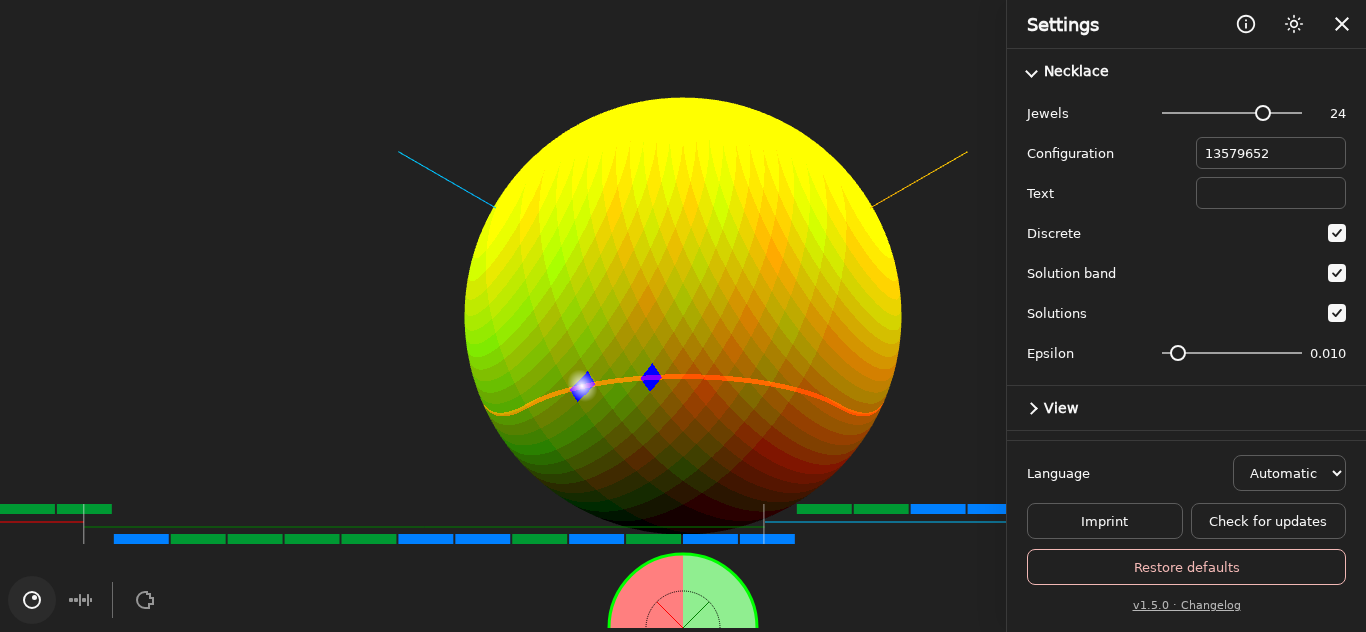
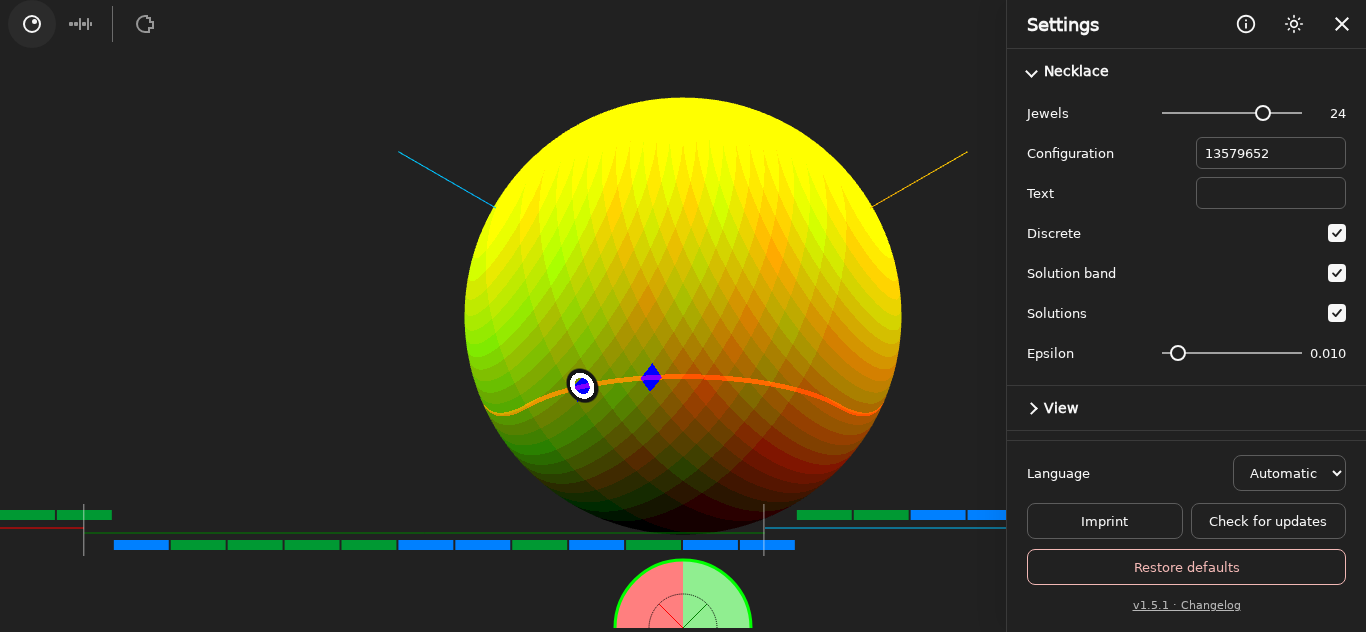
fix: readable marker, earlier turn, longer handles, switcher top left (v1.5.1)
Polish after trying v1.5.0 on a phone:

- The marker on the sphere is a white ring with a dark outline, open in
  the middle: the white glow was hard to see on the bright yellow, and a
  filled dot hid the color (and the blue solution markers) beneath it.
- The camera turns to a cut set on the necklace once it lies more than
  50 degrees from the direction of view, not only when it is hidden: near
  the rim the marker was squeezed and hard to see.
- The handles reach 6 px beyond the jewels' rows; the necklace starts
  that much lower.
- The view switcher moved to the upper left corner, level with the icon
  buttons; its tooltips open downward, and on phones the morph slider
  wraps below it. The fairness meter is centered again: the code that
  moved it aside for the switcher is gone.

Docs and screenshots follow.

diff --git a/src/necklace/Necklace.ts b/src/necklace/Necklace.ts
@@ -28,8 +28,12 @@ const Y_GAP_BETWEEN_THIEVES = 20;
 const Y_GAP_BETWEEN_LINE_SEGMENTS = 5;
 const Y_GAP_THIEF_LINE_SEGMENT = 7;
 
-/** The jewels' two rows, where the handles are drawn and parts are tapped. */
+/** How far the handles reach beyond the jewels' rows; the necklace starts this far down. */
+const OVERHANG = 6;
+/** The jewels' two rows, where parts are tapped. */
 const ROWS_HEIGHT = 2 * JEWEL_HEIGHT + Y_GAP_BETWEEN_THIEVES;
+/** Where the handles are drawn and grabbed, from the top of the canvas. */
+const HANDLES_HEIGHT = ROWS_HEIGHT + 2 * OVERHANG;
 /** How far from a handle, in px, a pointer still grabs it: at least 24 px wide for fingers. */
 const HANDLE_REACH = 14;
 /**
@@ -236,7 +240,7 @@ class Necklace extends NecklaceComponent {
   }
 
   private onPointerDown(event: PointerEvent): void {
-    if (!cutsFromNecklace() || !this.hasCut || event.offsetY > ROWS_HEIGHT + HANDLE_REACH) {
+    if (!cutsFromNecklace() || !this.hasCut || event.offsetY > HANDLES_HEIGHT + HANDLE_REACH) {
       return;
     }
     const handle = this.handleAt(event.offsetX);
@@ -254,7 +258,7 @@ class Necklace extends NecklaceComponent {
     if (this.#dragging) {
       this.#dragging = this.moveHandle(this.#dragging, event.offsetX / this.width);
     } else if (cutsFromNecklace() && this.hasCut) {
-      const onRows = event.offsetY <= ROWS_HEIGHT + HANDLE_REACH;
+      const onRows = event.offsetY <= HANDLES_HEIGHT + HANDLE_REACH;
       this.canvas.style.cursor = !onRows ? "" : this.handleAt(event.offsetX) ? "ew-resize" : "pointer";
     }
   }
@@ -363,7 +367,7 @@ class Necklace extends NecklaceComponent {
     if (ctxOrNull !== null) {
       const ctx: CanvasRenderingContext2D = ctxOrNull;
       const xOffset = 0;
-      const yOffset = 0;
+      const yOffset = OVERHANG;
       let xPos = xOffset;
 
       const cuts = this.model.cuts;
@@ -373,7 +377,10 @@ class Necklace extends NecklaceComponent {
 
         // Render line segments for x*x, y*y, z*z
         if (cuts !== undefined) {
+          ctx.save();
+          ctx.translate(0, yOffset);
           this.drawSegments(ctx, cuts);
+          ctx.restore();
         }
         if (this.hasCut) {
           this.drawHandles(ctx);
@@ -384,7 +391,7 @@ class Necklace extends NecklaceComponent {
       if (this.model.thief_a !== undefined && this.showGauge) {
         const thief_a = this.model.canonicalThief(this.model.thief_a);
         const thief_b = this.model.canonicalThief(this.model.thief_b);
-        this.drawGauge(ctx, 50, thief_a, thief_b);
+        this.drawGauge(ctx, 50 + OVERHANG, thief_a, thief_b);
       }
 
       // Some debug output
@@ -449,7 +456,7 @@ class Necklace extends NecklaceComponent {
       ctx.lineWidth = interactive ? 2 : 1;
       ctx.beginPath();
       ctx.moveTo(x, 0);
-      ctx.lineTo(x, ROWS_HEIGHT);
+      ctx.lineTo(x, HANDLES_HEIGHT);
       ctx.stroke();
       if (interactive) {
         // The grip, in the gap between the rows.
@@ -458,7 +465,7 @@ class Necklace extends NecklaceComponent {
         // Whole at the ends of the necklace too.
         const grip = Math.min(this.width - width / 2, Math.max(width / 2, x));
         ctx.beginPath();
-        ctx.roundRect(grip - width / 2, JEWEL_HEIGHT + 2, width, height, 3);
+        ctx.roundRect(grip - width / 2, OVERHANG + JEWEL_HEIGHT + 2, width, height, 3);
         ctx.fill();
       }
     }
@@ -468,7 +475,7 @@ class Necklace extends NecklaceComponent {
       ctx.globalAlpha = 1;
       ctx.lineWidth = 2;
       ctx.setLineDash([4, 3]);
-      ctx.strokeRect(bounds[part] * this.width + 1, 1, (bounds[part + 1] - bounds[part]) * this.width - 2, ROWS_HEIGHT - 2);
+      ctx.strokeRect(bounds[part] * this.width + 1, 1, (bounds[part + 1] - bounds[part]) * this.width - 2, HANDLES_HEIGHT - 2);
     }
     ctx.restore();
   }
@@ -545,25 +552,12 @@ class Necklace extends NecklaceComponent {
     const height = this.height - y0;
     const lineWidth = 3.0;
     const vgap = 2;
-    let radius = height - vgap;
-    let centerX = this.width / 2;
-    // Clear of the view switcher in the lower left corner: on narrow screens,
-    // centered in the room right of it and left of the version label, and
-    // smaller if that room is too small.
-    const switcher = document.querySelector(".view-switcher");
-    if (switcher) {
-      const left = switcher.getBoundingClientRect().right - this.canvas.getBoundingClientRect().left + 8;
-      if (centerX - radius < left) {
-        const room = this.width - 48 - left;
-        radius = Math.min(radius, room / 2);
-        centerX = left + room / 2;
-      }
-    }
+    const radius = height - vgap;
 
     if (radius >= 10) {
       /** The real circle radius, scaled by sqrt(0.5), because the largest vector can be [1,1]. */
       const rradius = Math.SQRT1_2 * radius;
-      const center = new THREE.Vector2(centerX, this.height - vgap);
+      const center = new THREE.Vector2(this.width / 2, this.height - vgap);
 
       const THIEF_A_COLOR = this.thief_a_color;
       const THIEF_B_COLOR = this.thief_b_color;

diff --git a/src/i18n/info/info.de.html b/src/i18n/info/info.de.html
@@ -9,12 +9,12 @@
 <h2>Die Kugel</h2>
 <p>Jeder Punkt (x, y, z) der Kugel ist ein Paar von Schnitten: Sie teilen die Halskette in bis zu drei Stücke der Längen x², y² und z²,
     die zusammen die ganze Halskette ergeben. Das Vorzeichen jeder Koordinate gibt die zugehörige Teilkette Dieb A (+) oder Dieb B (−).</p>
-<p>Positionsmarker auf der Kugel: Die weiße Markierung zeigt auf einen Punkt der Kugeloberfläche, die Halskette darunter seine Schnitte, gefolgt von der Fairness-Anzeige,
+<p>Positionsmarker auf der Kugel: Die Markierung, ein weißer Ring mit dunklem Rand, zeigt auf einen Punkt der Kugeloberfläche, die Halskette darunter seine Schnitte, gefolgt von der Fairness-Anzeige,
     die zeigt, wie gerecht die Teilung ist. Je eine Linie pro Dieb zeigt, wie viel er von jedem Juwelen-Typ bekommt; der gepunktete Bogen
     markiert einen gerechten Anteil, und der äußere Bogen färbt sich von Rot nach Grün, je gerechter die Teilung wird.</p>
-<p>Oder schneide die Halskette selbst: Die beiden Knöpfe in der linken unteren Ecke wählen, was die Schnitte setzt - das Zeigen auf die Kugel oder die Griffe der Halskette.
+<p>Oder schneide die Halskette selbst: Die beiden Knöpfe in der linken oberen Ecke wählen, was die Schnitte setzt - das Zeigen auf die Kugel oder die Griffe der Halskette.
     Mit <em>Die Halskette schneiden</em> ziehst du die beiden Griffe entlang der Halskette und tippst auf ein Stück, um es dem anderen Dieb zu geben.
-    Die Markierung auf der Kugel folgt, und die Ansicht dreht sich zu ihr, wenn sie verdeckt ist. Ist die Teilung gerecht, sagt es dir die App.</p>
+    Die Markierung auf der Kugel folgt, und die Ansicht dreht sich zu ihr, wenn sie an den Rand gerät oder verdeckt ist. Ist die Teilung gerecht, sagt es dir die App.</p>
 <p>Die Farben auf der Kugeloberfläche visualisieren, wie viel Dieb A von jedem Juwelen-Typ bekommt: Rot für die erste Sorte, Grün für die zweite.
     Helles Gelb, eine Mischung aus beiden Farben, bedeutet, dass Dieb A von beiden Juwelen-Typen den größten Teil bekommt.</p>
 
@@ -42,7 +42,7 @@
     Anders formuliert: Die Hilfsfunktion g(x) = f(x) − f(−x) muss mindestens eine Nullstelle haben.</p>
 <p>Entlang eines Kreises um die Kugel bildet g(x) eine geschlossene Schleife um den Ursprung, weil g stetig ist und g(−x) = −g(x) gilt.
     Wandert der Kreis zu einem Pol, schrumpft die Schleife stetig zu einem einzigen Punkt - unterwegs muss sie also den Ursprung kreuzen.</p>
-<p>Der Borsuk-Ulam-Knopf in der linken unteren Ecke verwandelt die Kugel in die 3D-Form, die g(x) bildet, während der Kreis wandert:
+<p>Der Borsuk-Ulam-Knopf in der linken oberen Ecke verwandelt die Kugel in die 3D-Form, die g(x) bildet, während der Kreis wandert:
     Jeder Punkt x der Kugel wird bei (g(x), z) gezeichnet, in den Farben der Kugel.
     Mit dem Schieberegler neben dem Knopf gehst du stufenlos zwischen Kugel und Form hin und her; Halskette und Fairness-Anzeige sind währenddessen ausgeblendet. Gerechte Teilungen liegen dort, wo die Form die z-Achse trifft (<em>Ansicht › Achsen</em>).
     Mit <em>Halskette › Diskret</em> springt g von Wert zu Wert; die Wände zwischen den Stufen überbrücken diese Sprünge.

diff --git a/src/i18n/info/info.html b/src/i18n/info/info.html
@@ -9,12 +9,12 @@
 <h2>The sphere</h2>
 <p>Each point (x, y, z) on the sphere is a pair of cuts: they split the necklace into up to three pieces of the lengths x², y² and z²,
     which add up to the whole necklace. The sign of each coordinate gives its piece to thief A (+) or thief B (−).</p>
-<p>Point at the sphere: the white marker shows the point, the necklace below it the cuts, and the fairness meter how fair the split is.
+<p>Point at the sphere: the marker, a white ring with a dark outline, shows the point, the necklace below it the cuts, and the fairness meter how fair the split is.
     One line per thief shows how much of each kind of jewel that thief gets; the dotted arc marks a fair share, and the outer arc
     turns from red to green as the split gets fairer.</p>
-<p>Or cut the necklace yourself: the two buttons in the lower left corner choose what sets the cuts, pointing at the sphere or the necklace's handles.
+<p>Or cut the necklace yourself: the two buttons in the upper left corner choose what sets the cuts, pointing at the sphere or the necklace's handles.
     With <em>Cut the necklace</em>, drag the two handles along the necklace and tap a piece to give it to the other thief.
-    The marker on the sphere follows, and the view turns to it when it is out of sight. When the split is fair, the app says so.</p>
+    The marker on the sphere follows, and the view turns to it when it nears the rim or goes out of sight. When the split is fair, the app says so.</p>
 <p>The colors on the sphere show how much thief A gets of each kind of jewel: red for the first kind, green for the second.
     Bright yellow, a mix of both, means thief A gets most of both kinds.</p>
 
@@ -40,7 +40,7 @@
     In other words, the auxiliary function g(x) = f(x) − f(−x) must have at least one zero.</p>
 <p>Along a circle around the sphere, g(x) forms a closed loop around the origin, because g is continuous and g(−x) = −g(x).
     Moving the circle towards a pole shrinks the loop continuously to a single point, so on the way the loop must cross the origin.</p>
-<p>The Borsuk-Ulam button in the lower left corner morphs the sphere into the 3D shape formed by g(x)
+<p>The Borsuk-Ulam button in the upper left corner morphs the sphere into the 3D shape formed by g(x)
     as the circle moves: each point x of the sphere is drawn at (g(x), z), in the colors of the sphere.
     The slider beside the button moves the view anywhere between sphere and shape; necklace and fairness meter are hidden meanwhile. Fair splits lie where the shape meets the z axis (<em>View › Axes</em>).
     With <em>Necklace › Discrete</em>, g jumps from value to value; the walls between the steps span these jumps.

diff --git a/src/sphere/Sphere.ts b/src/sphere/Sphere.ts
@@ -17,6 +17,12 @@ import fragmentShader from "./shaders/sphere.frag";
 
 /** How long the camera takes to turn to a cut out of sight, in ms. */
 const TURN_DURATION = 700;
+/**
+ * How far from the direction of view a cut may lie before the camera turns to
+ * it: cos 50°, about three quarters of the way from the center to the rim.
+ * Further out, the marker is squeezed at the rim or hidden behind it.
+ */
+const IN_VIEW_COS = Math.cos((50 * Math.PI) / 180);
 
 const easeInOut = (x: number) => x < 0.5 ? 2 * x * x : 1 - (-2 * x + 2) ** 2 / 2;
 
@@ -253,7 +259,7 @@ class Sphere extends NecklaceComponent {
   }
 
   /**
-   * Turns the camera to the model's cut if it is out of sight: after a handle
+   * Turns the camera to the model's cut if it is near the rim or out of sight: after a handle
    * is let go or a part given to the other thief. Not while the sphere rotates,
    * which would carry the point away again.
    */
@@ -272,8 +278,9 @@ class Sphere extends NecklaceComponent {
     const toPoint = point.sub(target).normalize();
     const toCamera = this.#camera.position.clone().sub(target);
     const distance = toCamera.length();
-    // In sight: on the part of the sphere the camera sees, whose edge lies at cos = radius / distance.
-    if (toPoint.dot(toCamera.clone().normalize()) > SETTINGS.sphere.radius / distance) {
+    // Well in sight: near enough to the direction of view, and on the part of
+    // the sphere the camera sees at all, whose edge lies at cos = radius / distance.
+    if (toPoint.dot(toCamera.clone().normalize()) > Math.max(IN_VIEW_COS, SETTINGS.sphere.radius / distance)) {
       return;
     }
     const from = toCamera.normalize();

diff --git a/src/css/switcher.css b/src/css/switcher.css
@@ -1,15 +1,17 @@
-/* The view switcher (ui/ViewSwitcher.ts): in the lower left corner, as in
-   Climate Helix. The necklace canvas spans the bottom 20%, but draws its rows
-   at the top and the fairness meter centered below: the corner stays free. */
+/* The view switcher (ui/ViewSwitcher.ts): in the upper left corner, level
+   with the icon buttons on the right. On a phone the morph slider wraps onto
+   a line of its own below the buttons, clear of those on the right. */
 .view-switcher {
     /* Below the settings panel (6) and the overlays (8). */
     z-index: 5;
     position: absolute;
     left: 8px;
-    bottom: 8px;
+    top: 0;
+    max-width: calc(100% - var(--settings-size) * 3 - 24px);
     display: flex;
+    flex-wrap: wrap;
     align-items: center;
-    gap: 8px;
+    gap: 0 8px;
 }
 
 /* The input buttons, exclusive, set apart from the shape toggle by a line. */
@@ -77,7 +79,7 @@
 
 .view-tooltip {
     position: absolute;
-    bottom: calc(100% + 6px);
+    top: calc(100% + 6px);
     left: 0;
     white-space: nowrap;
     font-size: 0.8rem;

diff --git a/src/ui/ViewSwitcher.ts b/src/ui/ViewSwitcher.ts
@@ -19,7 +19,7 @@ const MORPH_DURATION = 1000;
 const easeInOut = (x: number) => x < 0.5 ? 2 * x * x : 1 - (-2 * x + 2) ** 2 / 2;
 
 /**
- * The buttons in the lower left corner, modeled on Climate Helix's scene
+ * The buttons in the upper left corner, modeled on Climate Helix's scene
  * switcher. Two exclusive buttons choose what sets the cuts: the pointer on the
  * sphere or the handles on the necklace (SETTINGS.view.input, INPUT_CHANGED).
  * The Borsuk-Ulam toggle morphs the sphere into

diff --git a/src/i18n/en.ts b/src/i18n/en.ts
@@ -61,7 +61,7 @@ export const en = {
         'button.close': 'Close',
         'button.showInfo': 'About this app',
 
-        /** The view switcher in the lower left corner (ui/ViewSwitcher.ts). */
+        /** The view switcher in the upper left corner (ui/ViewSwitcher.ts). */
         'view.inputSphere': 'Point at the sphere',
         'view.inputNecklace': 'Cut the necklace',
         'view.borsukUlam': 'Borsuk-Ulam shape',

diff --git a/CLAUDE.md b/CLAUDE.md
@@ -59,11 +59,11 @@ Commit messages are `type: summary (vX.Y.Z)` with `type` one of `feat`, `fix`, `
 
 - `src/main.ts` sets up the app: settings, theme switcher, model, sphere, necklace, screen capture and the version label.
 - `src/necklace/NecklaceModel.ts` is the logic: the necklace configuration (from a number, lowest bit first, or from the bits of a string's characters), and the segment lengths and thief assignment for a cut. The shaders (`src/sphere/shaders/functions.glsl`) compute the same split for every point of the sphere; change both together, `e2e/split.spec.ts` compares them. `shares(p)` gives thief A's shares without applying the cut, for the Borsuk-Ulam shape.
-- `src/sphere/Sphere.ts` is the 3D view: renderer, camera, `OrbitControls`, the sphere as eight octant meshes (faces and wireframe sharing one geometry; Spread octants moves them, Undivided octants hides two, so the shaders know nothing of octants and no triangle spans two of them) with their GLSL shaders (`src/sphere/shaders/`, loaded through `vite-plugin-glsl`), the solution band, the raycast that picks the cut under the pointer (it interpolates the hit triangle's `cut` attribute), and the render loop. `octantGeometry.ts` builds an octant's geometry: the attribute `cut` holds the point of the unit sphere each vertex stands for, which the shaders color by; when the Borsuk-Ulam shape is needed (shown, or morphing), the geometry gets it as its morph target, (g(x), z) · radius, computed on the CPU with `NecklaceModel.shares`. The meshes' morph influence (`SETTINGS.sphere.morph`, `applyMorph`) moves between sphere and shape; faces (the vertex shader includes Three's morph chunks), wireframe and raycast all follow it. The geometry is rebuilt by Radius and Segments, and with the shape also when the necklace or Discrete changes (`updateGeometry`). View › Lighting shades the faces in the fragment shader with a flat normal from screen-space derivatives and a headlight (`u_light`: Always 1, Shape as far as the sphere is morphed, Off 0); the light dims the colors to 60% at most, and the solution band and the marker stay unlit. The shape follows Discrete (decided 2026-09-29): a discrete g is piecewise constant, so what shows are the walls across its jumps, and they stay. `OrbitControls` stay (decided 2026-09-28, instead of the `TrackballControls` Climate Helix uses): they reach every point of the sphere and keep the vertical axis vertical, so the axes and octants stay where the explanation puts them; trackball controls let the view tip over, and their momentum needs an update every frame, against drawing only on change. The loop draws only when something changed (`#needsRender`: camera, pointer, size, theme, sphere, material or visibility) and every frame while the rotation animation runs: set the flag when adding anything else that changes the picture. The pointer is hit-tested before drawing; it starts outside the view, so no cut is set before it moves. In the necklace mode (`cutsFromNecklace()` in `settingsValues.ts`) there is no hit-test: the marker shows the model's cut, and `SHOW_CUT` (a handle let go, a part given away) turns the camera around the orbit's target to the point if it is out of sight (`showCut`, `turnCamera`), not while the rotation animation runs. `Resizer.ts` fits renderer and camera to the window; `Stats.ts` is the optional FPS monitor.
-- `src/necklace/Necklace.ts` draws the necklace, the current cut as two handles and the fairness meter on a 2D canvas. In the necklace mode the handles are dragged (pointer events, snapped to the gaps between jewels with Discrete, swapping roles when one passes the other) and tapping a part gives it to the other thief; hidden sliders and buttons (`.visually-hidden`) do the same from the keyboard and for screen readers, and the canvas marks the focused one. A cut set by the handles is nudged 10⁻⁹ before them, so that a handle exactly on a gap does not take the next jewel through rounding. A fair split shows a message (`role="status"`). The fairness meter moves right of the view switcher when they would overlap (phones). `src/necklace/handles.ts` maps between handles (a, b and the thieves of the three parts) and the point of the sphere. `src/necklace/NecklaceComponent.ts` is the base class of both views (container, canvas, model, theme observer).
+- `src/sphere/Sphere.ts` is the 3D view: renderer, camera, `OrbitControls`, the sphere as eight octant meshes (faces and wireframe sharing one geometry; Spread octants moves them, Undivided octants hides two, so the shaders know nothing of octants and no triangle spans two of them) with their GLSL shaders (`src/sphere/shaders/`, loaded through `vite-plugin-glsl`), the solution band, the raycast that picks the cut under the pointer (it interpolates the hit triangle's `cut` attribute), and the render loop. `octantGeometry.ts` builds an octant's geometry: the attribute `cut` holds the point of the unit sphere each vertex stands for, which the shaders color by; when the Borsuk-Ulam shape is needed (shown, or morphing), the geometry gets it as its morph target, (g(x), z) · radius, computed on the CPU with `NecklaceModel.shares`. The meshes' morph influence (`SETTINGS.sphere.morph`, `applyMorph`) moves between sphere and shape; faces (the vertex shader includes Three's morph chunks), wireframe and raycast all follow it. The geometry is rebuilt by Radius and Segments, and with the shape also when the necklace or Discrete changes (`updateGeometry`). View › Lighting shades the faces in the fragment shader with a flat normal from screen-space derivatives and a headlight (`u_light`: Always 1, Shape as far as the sphere is morphed, Off 0); the light dims the colors to 60% at most, and the solution band and the marker stay unlit. The shape follows Discrete (decided 2026-09-29): a discrete g is piecewise constant, so what shows are the walls across its jumps, and they stay. `OrbitControls` stay (decided 2026-09-28, instead of the `TrackballControls` Climate Helix uses): they reach every point of the sphere and keep the vertical axis vertical, so the axes and octants stay where the explanation puts them; trackball controls let the view tip over, and their momentum needs an update every frame, against drawing only on change. The loop draws only when something changed (`#needsRender`: camera, pointer, size, theme, sphere, material or visibility) and every frame while the rotation animation runs: set the flag when adding anything else that changes the picture. The pointer is hit-tested before drawing; it starts outside the view, so no cut is set before it moves. In the necklace mode (`cutsFromNecklace()` in `settingsValues.ts`) there is no hit-test: the marker shows the model's cut, and `SHOW_CUT` (a handle let go, a part given away) turns the camera around the orbit's target to the point if it lies more than 50° from the direction of view (`showCut`, `turnCamera`), not while the rotation animation runs. `Resizer.ts` fits renderer and camera to the window; `Stats.ts` is the optional FPS monitor.
+- `src/necklace/Necklace.ts` draws the necklace, the current cut as two handles and the fairness meter on a 2D canvas. In the necklace mode the handles are dragged (pointer events, snapped to the gaps between jewels with Discrete, swapping roles when one passes the other) and tapping a part gives it to the other thief; hidden sliders and buttons (`.visually-hidden`) do the same from the keyboard and for screen readers, and the canvas marks the focused one. The handles reach 6 px beyond the jewels' rows (`OVERHANG`). A cut set by the handles is nudged 10⁻⁹ before them, so that a handle exactly on a gap does not take the next jewel through rounding. A fair split shows a message (`role="status"`). `src/necklace/handles.ts` maps between handles (a, b and the thieves of the three parts) and the point of the sphere. `src/necklace/NecklaceComponent.ts` is the base class of both views (container, canvas, model, theme observer).
 - `src/settings/settingsValues.ts` holds `SETTINGS` with its defaults, the ranges of the numeric settings (`LIMITS`, used by the controls and to validate stored values), `EPS` and `MAX_JEWELS`; import them from there. `src/settings/Settings.ts` applies the remembered settings and builds the settings panel: `SettingsPanel.ts` is the native side panel (full screen on phones) with a scrolling body and a fixed footer, `settingsSections.ts` fills it (Necklace, View, Animation, Screen capture, a collapsed Advanced with the sphere's mesh and colors; the footer with Imprint, Check for updates and Restore defaults), from the controls in `settingsControls.ts` (section, checkbox, range, number field, text field, segmented buttons, button; each control's `update()` shows a value that changed elsewhere). Each control writes `SETTINGS`, dispatches the event the views listen for and saves the settings. `SettingsButton.ts` is the gear button; `h` and Escape open and close the panel too. The styles are in `src/css/settings.css`. `src/settings/PersistentState.ts` keeps the settings (those listed in `SETTING_FIELDS`, with the ranges of their controls), which input defined the necklace last, the theme and the camera across reloads in one Local Storage entry (`necklace-splitting.state`). `Settings.ts` applies them before building the panel, the controls save on every change; "Restore defaults" asks, clears the entry and reloads. A new setting that should be remembered goes into `SETTING_FIELDS`.
 - `src/Enums.ts` holds the `Events` used between modules.
-- `src/ui/ViewSwitcher.ts` is the view switcher in the lower left corner, below the necklace's rows and left of the fairness meter (styles in `src/css/switcher.css`), modeled on Climate Helix's scene switcher: two exclusive buttons choose what sets the cuts, the pointer on the sphere or the necklace's handles (`SETTINGS.view.input`, remembered, `INPUT_CHANGED`), and the Borsuk-Ulam toggle (`SETTINGS.sphere.show_borsuk_ulam_proof_shape`, remembered) morphs the sphere into the shape in a second and back, and a slider beside it, shown with the shape, scrubs the morph. Both set `SETTINGS.sphere.morph` (not remembered; it follows the toggle at startup) and dispatch `MORPH_CHANGED`. With the shape on, `Necklace.ts` hides the necklace and the fairness meter, and the input buttons are disabled: the pointer sets the cuts.
+- `src/ui/ViewSwitcher.ts` is the view switcher in the upper left corner, level with the icon buttons on the right; on phones the morph slider wraps below it (styles in `src/css/switcher.css`), modeled on Climate Helix's scene switcher: two exclusive buttons choose what sets the cuts, the pointer on the sphere or the necklace's handles (`SETTINGS.view.input`, remembered, `INPUT_CHANGED`), and the Borsuk-Ulam toggle (`SETTINGS.sphere.show_borsuk_ulam_proof_shape`, remembered) morphs the sphere into the shape in a second and back, and a slider beside it, shown with the shape, scrubs the morph. Both set `SETTINGS.sphere.morph` (not remembered; it follows the toggle at startup) and dispatch `MORPH_CHANGED`. With the shape on, `Necklace.ts` hides the necklace and the fairness meter, and the input buttons are disabled: the pointer sets the cuts.
 - `src/ui/` holds `SVGToggleButton.ts` (the icon buttons; give each one `labels`, its names for screen readers, and they work with Enter and Space), `OverlayPage.ts` (the full-page overlay of the imprint: an X fixed at the settings button's position, Escape closes it - only it, not the settings panel below -, listening in the capture phase since a focused control may stop key events), `ThemesSwitcher.ts`, `ScreenCapture.ts` and `ClassMutationObserver.ts`, and `loadHtml2canvas.ts`, which loads html2canvas on first use for the capture and the imprint (keep it out of static imports: it is about 200 kB). `ScreenCapture.ts` also makes WebGL keep its drawing buffer, so that a capture contains the sphere; that must run before the renderer is created, so the module stays a static import of `main.ts`. `src/imprint/Imprint.ts` shows the imprint. `src/ui/PwaUpdate.ts` registers the service worker (`virtual:pwa-register`), asks before reloading into a new version, and backs "Check for updates" in the settings; its status messages and dialog are styled in `src/css/pwa.css`.
 - `src/changelog/Changelog.ts` shows `CHANGELOG.md` when the version label (lower right) or the version in the settings' footer is clicked; `changelogFormat.ts` parses and renders it. The file is loaded on demand (`CHANGELOG.md?raw`), and the build adds the newest entry's commit hash (`changelogCommit` in `vite.config.ts`). `src/changelog/WhatsNew.ts` shows the entries since the version used last, once per version (`lastSeenVersion` in the persistent state, kept by Restore defaults); entries marked "No functional change." are left out. Someone who used the app before What's new existed - recognized by stored settings or by a service worker already controlling the page - gets the news since v0.4.13, the version deployed before the modernization.
 - `src/i18n/index.ts` chooses the language at startup: the one chosen under Language in the settings (stored as `language`), or else the browser's first language the app has, or else English. Changing it stores the choice and reloads the app.

diff --git a/README.md b/README.md
@@ -16,7 +16,7 @@ $$x^2 + y^2 + z^2 = 1.$$
 
 The sign of each coordinate gives its piece to thief A ($+$) or thief B ($-$).
 
-Point at the sphere: the white marker shows the point, the necklace below it the cuts, and the fairness meter how fair the split is. One line per thief shows how much of each kind of jewel that thief gets; the dotted arc marks a fair share, and the outer arc turns from red to green as the split gets fairer.
+Point at the sphere: the marker, a white ring with a dark outline, shows the point, the necklace below it the cuts, and the fairness meter how fair the split is. One line per thief shows how much of each kind of jewel that thief gets; the dotted arc marks a fair share, and the outer arc turns from red to green as the split gets fairer.
 
 The colors on the sphere show how much thief A gets of each kind: red for the first kind, green for the second. Bright yellow, a mix of both, means thief A gets most of both kinds.
 
@@ -54,7 +54,7 @@ $$g(\mathbf{x}) = f(\mathbf{x}) - f(-\mathbf{x})$$
 
 must have at least one zero. Along a circle around the sphere, $g$ forms a closed loop around the origin, because $g$ is continuous and $g(-\mathbf{x}) = -g(\mathbf{x})$. Moving the circle towards a pole shrinks the loop continuously to a single point, so on the way the loop must cross the origin.
 
-The Borsuk-Ulam button in the lower left corner morphs the sphere into the 3D shape formed by $g(\mathbf{x})$ as the circle moves: each point $\mathbf{x}$ of the sphere is drawn at $(g(\mathbf{x}), z)$, in the colors of the sphere. The slider beside the button moves the view anywhere between sphere and shape. Fair splits lie where the shape meets the $z$ axis (*View › Axes*). With *Necklace › Discrete*, $g$ jumps from value to value; the walls between the steps span these jumps. *View › Lighting* shades the shape, so that its facets and walls stand out even without the mesh.
+The Borsuk-Ulam button in the upper left corner morphs the sphere into the 3D shape formed by $g(\mathbf{x})$ as the circle moves: each point $\mathbf{x}$ of the sphere is drawn at $(g(\mathbf{x}), z)$, in the colors of the sphere. The slider beside the button moves the view anywhere between sphere and shape. Fair splits lie where the shape meets the $z$ axis (*View › Axes*). With *Necklace › Discrete*, $g$ jumps from value to value; the walls between the steps span these jumps. *View › Lighting* shades the shape, so that its facets and walls stand out even without the mesh.
 
 ![The Borsuk-Ulam shape, with the view switcher and its slider](./docs/images/necklace-borsuk-ulam.png)
 
@@ -62,7 +62,7 @@ The Borsuk-Ulam button in the lower left corner morphs the sphere into the 3D sh
 
 <img src="./docs/images/necklace-phone.png" alt="The app on a phone" width="195"> <img src="./docs/images/necklace-phone-settings.png" alt="The settings on a phone" width="195"> <img src="./docs/images/necklace-phone-handles.png" alt="Cutting the necklace with its handles on a phone" width="195">
 
-- **Point or cut**: the two buttons in the lower left corner choose what sets the cuts. *Point at the sphere* is the view above. *Cut the necklace* turns it around: drag the two handles along the necklace and tap a piece to give it to the other thief. The marker on the sphere follows, the view turns to it when it is out of sight, and a fair split is celebrated.
+- **Point or cut**: the two buttons in the upper left corner choose what sets the cuts. *Point at the sphere* is the view above. *Cut the necklace* turns it around: drag the two handles along the necklace and tap a piece to give it to the other thief. The marker on the sphere follows, the view turns to it when it nears the rim or goes out of sight, and a fair split is celebrated.
 - **Borsuk-Ulam shape**: the button beside them morphs the sphere into the shape of $g$ (see above).
 - **Settings** (gear button, or `h`): the necklace, what the view shows, a rotation animation and screen captures; *Advanced* holds the sphere's mesh and colors. The app remembers them; *Restore defaults* goes back to the original ones.
 - **About this app** (info button): the explanation above, in the app.

diff --git a/ROADMAP.md b/ROADMAP.md
@@ -13,9 +13,9 @@ Planned in this order (decided 2026-09-29): lighting (v1.3.0), the view switcher
 
 ### The view switcher
 
-Buttons in the lower left corner (moved there from above the necklace, decided 2026-09-29): the necklace canvas spans the bottom 20%, but its rows are drawn at the top and the fairness meter centered below them, so the corner is free. Modeled on Climate Helix's `SceneSwitcher` (`~/dev/climate-helix/src/ui/SceneSwitcher.ts`, `scenes.css`): icon buttons with a tooltip and an accessible name, the active one highlighted, the state remembered in the persistent state. Two independent choices:
+Buttons in the upper left corner, level with the icon buttons on the right (decided 2026-09-29, after trying above the necklace and the lower left corner, where the fairness meter had to move aside on phones). Modeled on Climate Helix's `SceneSwitcher` (`~/dev/climate-helix/src/ui/SceneSwitcher.ts`, `scenes.css`): icon buttons with a tooltip and an accessible name, the active one highlighted, the state remembered in the persistent state. Two independent choices:
 
-- **Input mode**, two exclusive buttons: *Sphere* (the pointer on the sphere sets the cuts, as now) and *Necklace* (handles on the necklace set the cuts, feature 3, done in v1.5.0). On a phone, the fairness meter leaves only about 78 px left of it, room for one button: with three, the meter's radius must be limited so that it clears the switcher.
+- **Input mode**, two exclusive buttons: *Sphere* (the pointer on the sphere sets the cuts, as now) and *Necklace* (handles on the necklace set the cuts, feature 3, done in v1.5.0). On a phone the morph slider wraps onto a line below the buttons.
 - **Borsuk-Ulam shape**, a toggle button (feature 2, done in v1.4.0). It replaces the checkbox View › Borsuk-Ulam shape, which is removed from the settings panel; a stored `sphere.show_borsuk_ulam_proof_shape` carries over to the toggle. While it is on, the view is about the sphere morphing into the shape of g: the necklace and the gauge are hidden, the input-mode buttons stay in place but are disabled, and the pointer on the shape still moves the marker. Turning it off restores the previous mode, the necklace and the gauge. The info pages name the button instead of the setting (`e2e/info.spec.ts`, `e2e/german.spec.ts`).
 
 ### 1. Lighting (done in v1.3.0)

diff --git a/.claude/skills/screenshots/SKILL.md b/.claude/skills/screenshots/SKILL.md
@@ -14,7 +14,7 @@ The README shows seven screenshots in `docs/images/`. `npm run screenshots` reta
 | `necklace-octants.png` | Octants spread 1.6, undivided octants hidden, settings open at View | 1366 x 632 |
 | `necklace-borsuk-ulam.png` | The Borsuk-Ulam shape, lit, with the view switcher and its slider | 1366 x 632 |
 | `necklace-phone.png` | The app on a phone, the pointer on a solution | 390 x 844 |
-| `necklace-phone-handles.png` | The necklace mode on a phone: the handles at a third and two thirds, the fairness meter right of the switcher | 390 x 844 |
+| `necklace-phone-handles.png` | The necklace mode on a phone: the handles at a third and two thirds, the switcher in the upper left corner | 390 x 844 |
 | `necklace-phone-settings.png` | The settings on a phone | 390 x 844 |
 
 ## 1. When
@@ -33,7 +33,7 @@ The README shows seven screenshots in `docs/images/`. `npm run screenshots` reta
 
 Open every changed image (the Read tool shows images) and check:
 
-- The white marker sits on a blue solution marker in `necklace.png` and `necklace-phone.png`, and the fairness meter shows an exactly fair split.
+- The marker (a white ring with a dark outline) sits on a blue solution marker in `necklace.png` and `necklace-phone.png`, and the fairness meter shows an exactly fair split.
 - The sphere is not cropped (the phone uses the default camera distance, 50).
 - The version label shows the new version.
 

diff --git a/CHANGELOG.md b/CHANGELOG.md
@@ -1,6 +1,13 @@
 # Changelog
 
-## v1.5.0 · 2026-09-29
+## v1.5.1 · 2026-09-29
+
+* The marker on the sphere is now a white ring with a dark outline: the white glow was hard to see on the bright yellow. The color of the point shows inside the ring.
+* When the handles move the marker towards the rim of the sphere, the view turns to it earlier, not only once it is out of sight.
+* The handles reach a little beyond the necklace, so they are easier to see and to grab.
+* The buttons for pointing, cutting and the Borsuk-Ulam shape have moved to the upper left corner, and the fairness meter is centered again on phones.
+
+## v1.5.0 · 2026-09-29 · [d4ca4b1](https://github.com/mkuehne-git/necklace-splitting/commit/d4ca4b1)
 
 * Cut the necklace yourself: a new button in the lower left corner lets two handles on the necklace set the cuts instead of the pointer on the sphere. Drag a handle along the necklace, tap a piece to give it to the other thief, and watch the marker on the sphere follow; the view turns to the marker when it is out of sight. The app remembers which way you chose.
 * A fair split made with the handles is celebrated with a short message.
